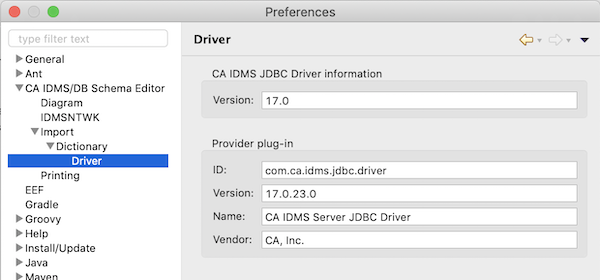
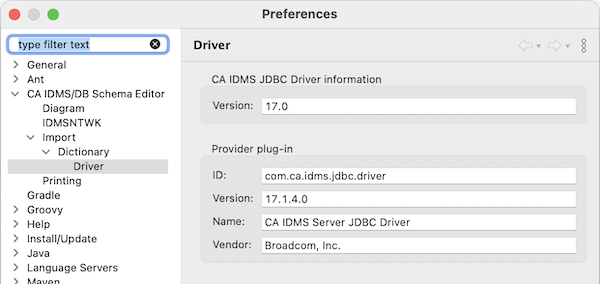
Set minimum Java version to 1.8 in IDMS driver OSGI bundle + update help

diff --git a/Eclipse CA IDMS Schema Diagram Editor/bundles/org.lh.dmlj.schema.editor.help/html/preferences/JDBC_driver.html b/Eclipse CA IDMS Schema Diagram Editor/bundles/org.lh.dmlj.schema.editor.help/html/preferences/JDBC_driver.html
@@ -44,7 +44,10 @@ now you should see the IDMS JDBC driver version information for the file you ins
 <br><br>
 <img src="../../images/JDBC_driver_installed.png" alt="[JDBC driver installed]">
 <br><br>
-When you see the version information, the JDBC driver was installed correctly.
+When you see the version information, the JDBC driver was installed correctly.  The driver version is retrieved from the
+actual driver (the <code>javax.sql.Driver</code> implementation); the diagram editor just reports this version.  The
+provider plug-in information is taken from the <i>OSGI bundle</i> properties that were added to the META-INF/MANIFEST.MF 
+file when importing the idmsjdbc.jar file.
 <h2>Troubleshooting</h2>
 Should the above procedure not work for you then you can try to install the IDMS JDBC driver into your Eclipse workbench
 like so :
@@ -56,8 +59,8 @@ and add the following lines to it :<br>
 Bundle-ManifestVersion: 2
 Bundle-Name: CA IDMS Server JDBC Driver
 Bundle-SymbolicName: com.ca.idms.jdbc.driver
-Bundle-Version: 17.0.23.0
-Bundle-Vendor: CA, Inc.
+Bundle-Version: 17.1.4.0
+Bundle-Vendor: Broadcom, Inc.
 Export-Package: ca.idms.dsi,
  ca.idms.io,
  ca.idms.jdbc,
@@ -68,10 +71,10 @@ Export-Package: ca.idms.dsi,
  ca.idms.xa,
  com.ca.idms.hibernate,
  com.ca.idms.was
-Bundle-RequiredExecutionEnvironment: JavaSE-1.7
+Bundle-RequiredExecutionEnvironment: JavaSE-1.8
 </pre></code>
 Copy the version information from <code>Implementation-Version</code> to <code>Bundle-Version</code> and make sure to 
-have an empty line after <code>Bundle-RequiredExecutionEnvironment: JavaSE-1.7</code>.  Don't forget to save your work
+have an empty line after <code>Bundle-RequiredExecutionEnvironment: JavaSE-1.8</code>.  Don't forget to save your work
 (in the idmsjdbc.jar file).
 <br><br>
 You have just transformed the idmsjdbc.jar file to an <b>OSGI bundle</b> that is ready to be picked up by Eclipse.
@@ -92,7 +95,10 @@ it isn't already there.<br><br></li>
 </li>
 </ul>
 This is what happens behind the scenes when you install the IDMS JDBC driver via the diagram editor, so if something 
-goes wrong there you now know how to fix this yourself.
+goes wrong there, you now know how to fix this yourself.
+<br><br>
+When replacing idmsjdbc.jar by a more recent version, it may be necessary to start Eclipse with the -clean command line
+argument.
 <br><br>
 </body>
 </html>

diff --git a/Eclipse CA IDMS Schema Diagram Editor/bundles/org.lh.dmlj.schema.editor.dictionary.tools/src/org/lh/dmlj/schema/editor/dictionary/tools/jar/JarHelper.java b/Eclipse CA IDMS Schema Diagram Editor/bundles/org.lh.dmlj.schema.editor.dictionary.tools/src/org/lh/dmlj/schema/editor/dictionary/tools/jar/JarHelper.java
@@ -1,3 +1,19 @@
+/**
+ * Copyright (C) 2020  Luc Hermans
+ * 
+ * This program is free software: you can redistribute it and/or modify it under the terms of the
+ * GNU General Public License as published by the Free Software Foundation, either version 3 of the
+ * License, or (at your option) any later version.
+ * 
+ * This program is distributed in the hope that it will be useful, but WITHOUT ANY WARRANTY; without
+ * even the implied warranty of MERCHANTABILITY or FITNESS FOR A PARTICULAR PURPOSE.  See the GNU
+ * General Public License for more details.
+ * 
+ * You should have received a copy of the GNU General Public License along with this program.  If
+ * not, see <http://www.gnu.org/licenses/>.
+ * 
+ * Contact information: kozzeluc@gmail.com.
+ */
 package org.lh.dmlj.schema.editor.dictionary.tools.jar;
 
 import java.io.BufferedReader;
@@ -54,7 +70,7 @@ public abstract class JarHelper {
 								 	 "com.ca.idms.hibernate,\n com.ca.idms.was");
 		}
 		if (!existingManifestHeaders.containsKey("Bundle-RequiredExecutionEnvironment")) {
-			extraManifestHeaders.put("6Bundle-RequiredExecutionEnvironment", "JavaSE-1.7");		
+			extraManifestHeaders.put("6Bundle-RequiredExecutionEnvironment", "JavaSE-1.8");
 		}
 		copyJarWithExtraManifestHeaders(src, dest, extraManifestHeaders);		
 	}	
